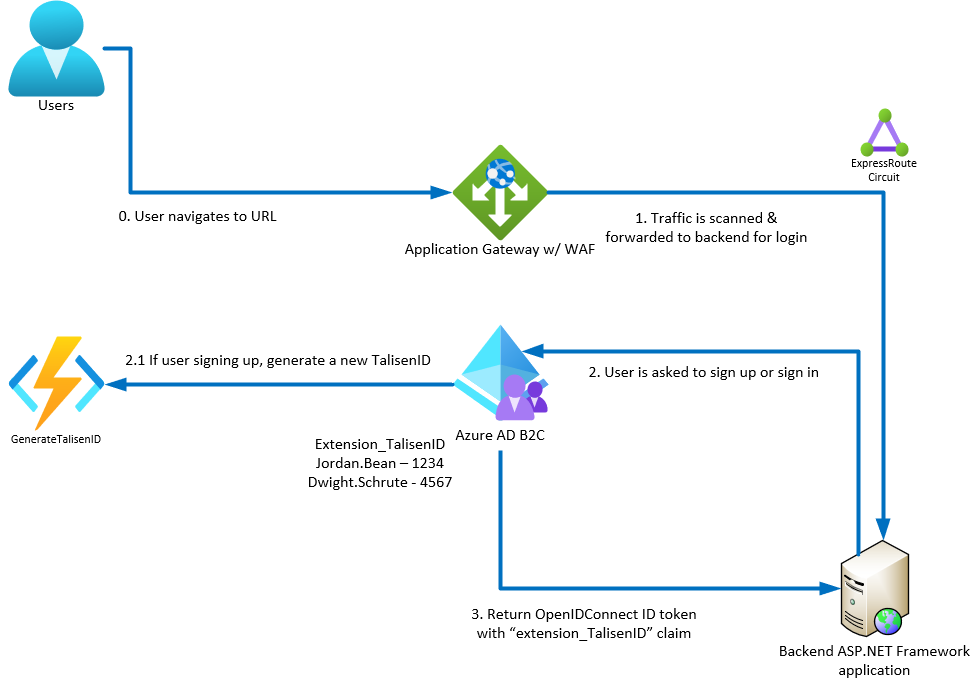
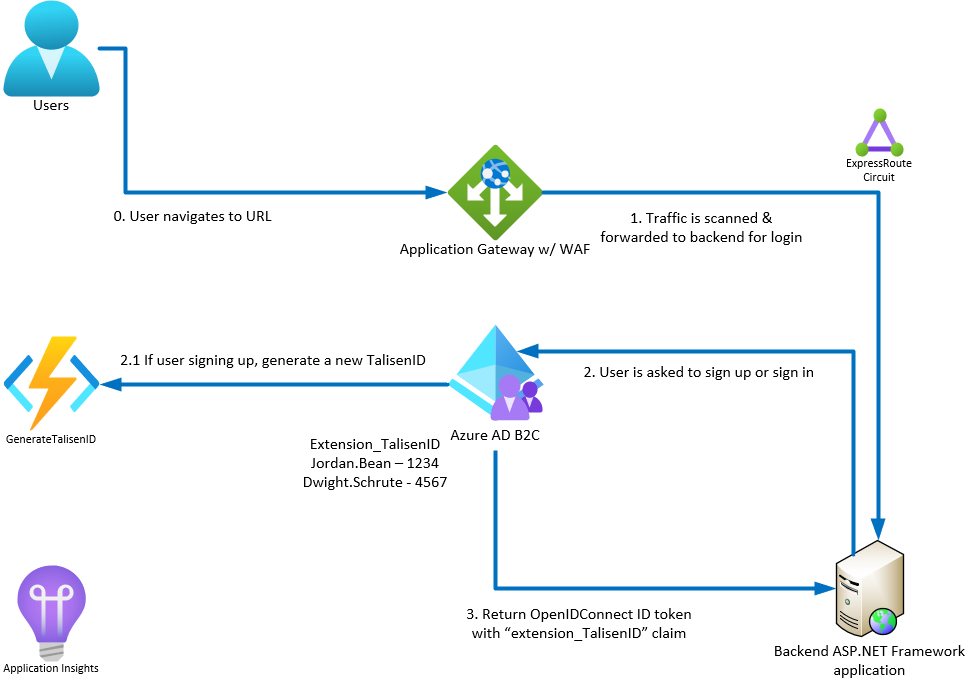
function

Changed region(s): [[0.0, 0.0, 1.0, 1.0], [0.0, 0.8229, 0.0925, 0.9753]]

diff --git a/README.md b/README.md
@@ -18,6 +18,8 @@ We need to create a [custom B2C user policy](https://docs.microsoft.com/en-us/az
 
 We also want to scan all incoming traffic to the backend applications for potential attacks, so we can direct traffic through an [Azure Application Gateway](https://docs.microsoft.com/en-us/azure/application-gateway/overview) with [Web Application Firewall (WAF)](https://docs.microsoft.com/en-us/azure/web-application-firewall/).
 
+[Azure Application Insights](https://docs.microsoft.com/en-us/azure/azure-monitor/app/app-insights-overview) can be linked up to your policies to track usage & debug errors in the user journey.
+
 Additionally, we can **back-populate** all existing users from the original identity provider using the [Microsoft Graph API](https://docs.microsoft.com/en-us/graph/) & our B2C tenant.
 
 Finally, the demo web app will display the all the ID token (using [hybrid flow](https://docs.microsoft.com/en-us/azure/active-directory/develop/v2-protocols-oidc)) claims as key/value pairs in a table to show the fact that the custom claims comes through. The application can then use this claim to make authorization decisions on a per-user basis.
@@ -33,15 +35,124 @@ The repo is divided into 2 sections.
 
 ## Azure AD B2C tenant setup
 
+### Create the Application Insights resource
+
+You will use Azure Application Insights to track usage & debug errors in the user journeys. You will need to copy the **InstrumentationKey** Guid from the **Overview** blade after deployment so you can add it to the custom B2C policies.
+
+### Create Azure Function resource and add code to generate custom claim for each user
+
+Create an Azure Function (Consumption Serverless SKU) to generate the custom claim for new user sign-up.
+
+In this example, I will use a PowerShell function.
+
+Create a new function in the **Functions** blade.
+
+1. Create a new function called **GenerateTalisenID**.
+1. Make it an HTTP triggered function
+1. In the **Code + Test** blade of that newly created function, add the following code. Notice that the "result" is a JSON object with the exact same name of the custom claim we want added to the user profile.
+
+```powershell
+using namespace System.Net
+
+# Input bindings are passed in via param block.
+param($Request, $TriggerMetadata)
+
+# Write to the Azure Functions log stream.
+Write-Host "PowerShell HTTP trigger function processed a request."
+
+$result = @{
+    extension_TalisenID = (New-Guid).Guid
+}
+
+$body = $result | ConvertTo-Json
+
+# Associate values to output bindings by calling 'Push-OutputBinding'.
+Push-OutputBinding -Name Response -Value ([HttpResponseContext]@{
+    StatusCode = [HttpStatusCode]::OK
+    Body = $body
+})
+```
+
 ### Create Azure AD B2C tenant
 
 ### Create custom user attribute
 
-### Create application registrations to support sign up/sign in, demo web app & back-population script
+### Create application registrations to demo web app & back-population script
 
-### Modify custom B2C policy before upload
+### Create the custom policies
 
-### Upload custom B2C policy
+You can mostly follow the instructions in the link below to set up the policy & its associated app registrations.
+
+https://docs.microsoft.com/en-us/azure/active-directory-b2c/tutorial-create-user-flows?pivots=b2c-custom-policy
+
+#### Replace custom extension with your custom extension name
+
+You will need to find & replace all references to the demo extension name in all files. It is initially defined in the `TrustFrameworkPolicy->BuildingBlocks->ClaimsSchema->ClaimsType` in the **TrustFrameworkBase.xml** file.
+
+```xml
+<ClaimType Id="extension_TalisenID">
+	<DisplayName>TalisenID</DisplayName>
+	<DataType>string</DataType>
+</ClaimType>
+```
+
+It is referenced in all other files.
+
+#### Replace REST API call to Azure Function
+
+You will need to provide the ServiceUrl & authentication scheme for your B2C policy to call out to the Azure Function to generate the custom claim on new user sign-up. For simplicity, in this example, an API key is used. For a production environment, you should set up a [ClientCertificate](https://docs.microsoft.com/en-us/azure/active-directory-b2c/secure-rest-api?tabs=windows&pivots=b2c-custom-policy#https-client-certificate-authentication) for authentication.
+
+```xml
+<ClaimsProvider>
+	<DisplayName>REST APIs</DisplayName>
+	<TechnicalProfiles>
+		<TechnicalProfile Id="REST-API-SignUp">
+			<DisplayName>Generate new TalisenID for user signup</DisplayName>
+			<Protocol Name="Proprietary" Handler="Web.TPEngine.Providers.RestfulProvider, Web.TPEngine, Version=1.0.0.0, Culture=neutral, PublicKeyToken=null" />
+			<Metadata>
+				<!-- Set the ServiceUrl with your own REST API endpoint -->
+				<Item Key="ServiceUrl">https://func-generate-talisen-id-ussc-demo.azurewebsites.net/api/GenerateTalisenId?code=x8Fdj2CjFakekeypualqnCmo1B4FakekeykaBH6miXbRmw==</Item>
+				<Item Key="SendClaimsIn">Body</Item>
+				<!-- Set AuthenticationType to Basic or ClientCertificate in production environments -->
+				<Item Key="AuthenticationType">None</Item>
+				<!-- REMOVE the following line in production environments -->
+				<Item Key="AllowInsecureAuthInProduction">true</Item>
+			</Metadata>
+			<InputClaims>
+				<!-- Claims sent to your REST API -->
+				<InputClaim ClaimTypeReferenceId="objectId" />
+			</InputClaims>
+			<OutputClaims>
+				<!-- Claims parsed from your REST API -->
+				<OutputClaim ClaimTypeReferenceId="extension_TalisenID" />
+			</OutputClaims>
+			<UseTechnicalProfileForSessionManagement ReferenceId="SM-Noop" />
+		</TechnicalProfile>
+	</TechnicalProfiles>
+</ClaimsProvider>
+```
+
+#### Replace App Insights Instrumentation key
+
+You will need to update all the custom policies with the App Insights Instrumentation Key. You can find them near the top of the various policy files.
+
+```xml
+<UserJourneyBehaviors>
+	<JourneyInsights TelemetryEngine="ApplicationInsights" InstrumentationKey="b96c2dc3-1234-43cb-5678-d0fc1f7fecbf" DeveloperMode="true" ClientEnabled="true" ServerEnabled="true" TelemetryVersion="1.0.0" />
+</UserJourneyBehaviors>
+```
+
+### Upload custom policies
+
+**You must upload the policies in the order specified**.
+
+1. TrustFrameworkBase.xml
+1. TrustFrameworkExtensions.xml
+1. SignUpOrSignin.xml
+1. ProfileEdit.xml
+1. PasswordReset.xml
+
+The names of the policies will be added to the Web.config file in the demo app.
 
 ## Backpopulate existing users
 
@@ -91,6 +202,7 @@ You will need to modify the following values in the `DemoWebAppB2CWithCustomClai
 - https://docs.microsoft.com/en-us/azure/active-directory-b2c/
 - https://docs.microsoft.com/en-us/azure/active-directory-b2c/custom-policy-overview
 - https://docs.microsoft.com/en-us/azure/azure-functions/
+- https://docs.microsoft.com/en-us/azure/azure-monitor/app/app-insights-overview
 - https://docs.microsoft.com/en-us/azure/application-gateway/overview
 - https://docs.microsoft.com/en-us/azure/web-application-firewall/
 - https://docs.microsoft.com/en-us/graph/
